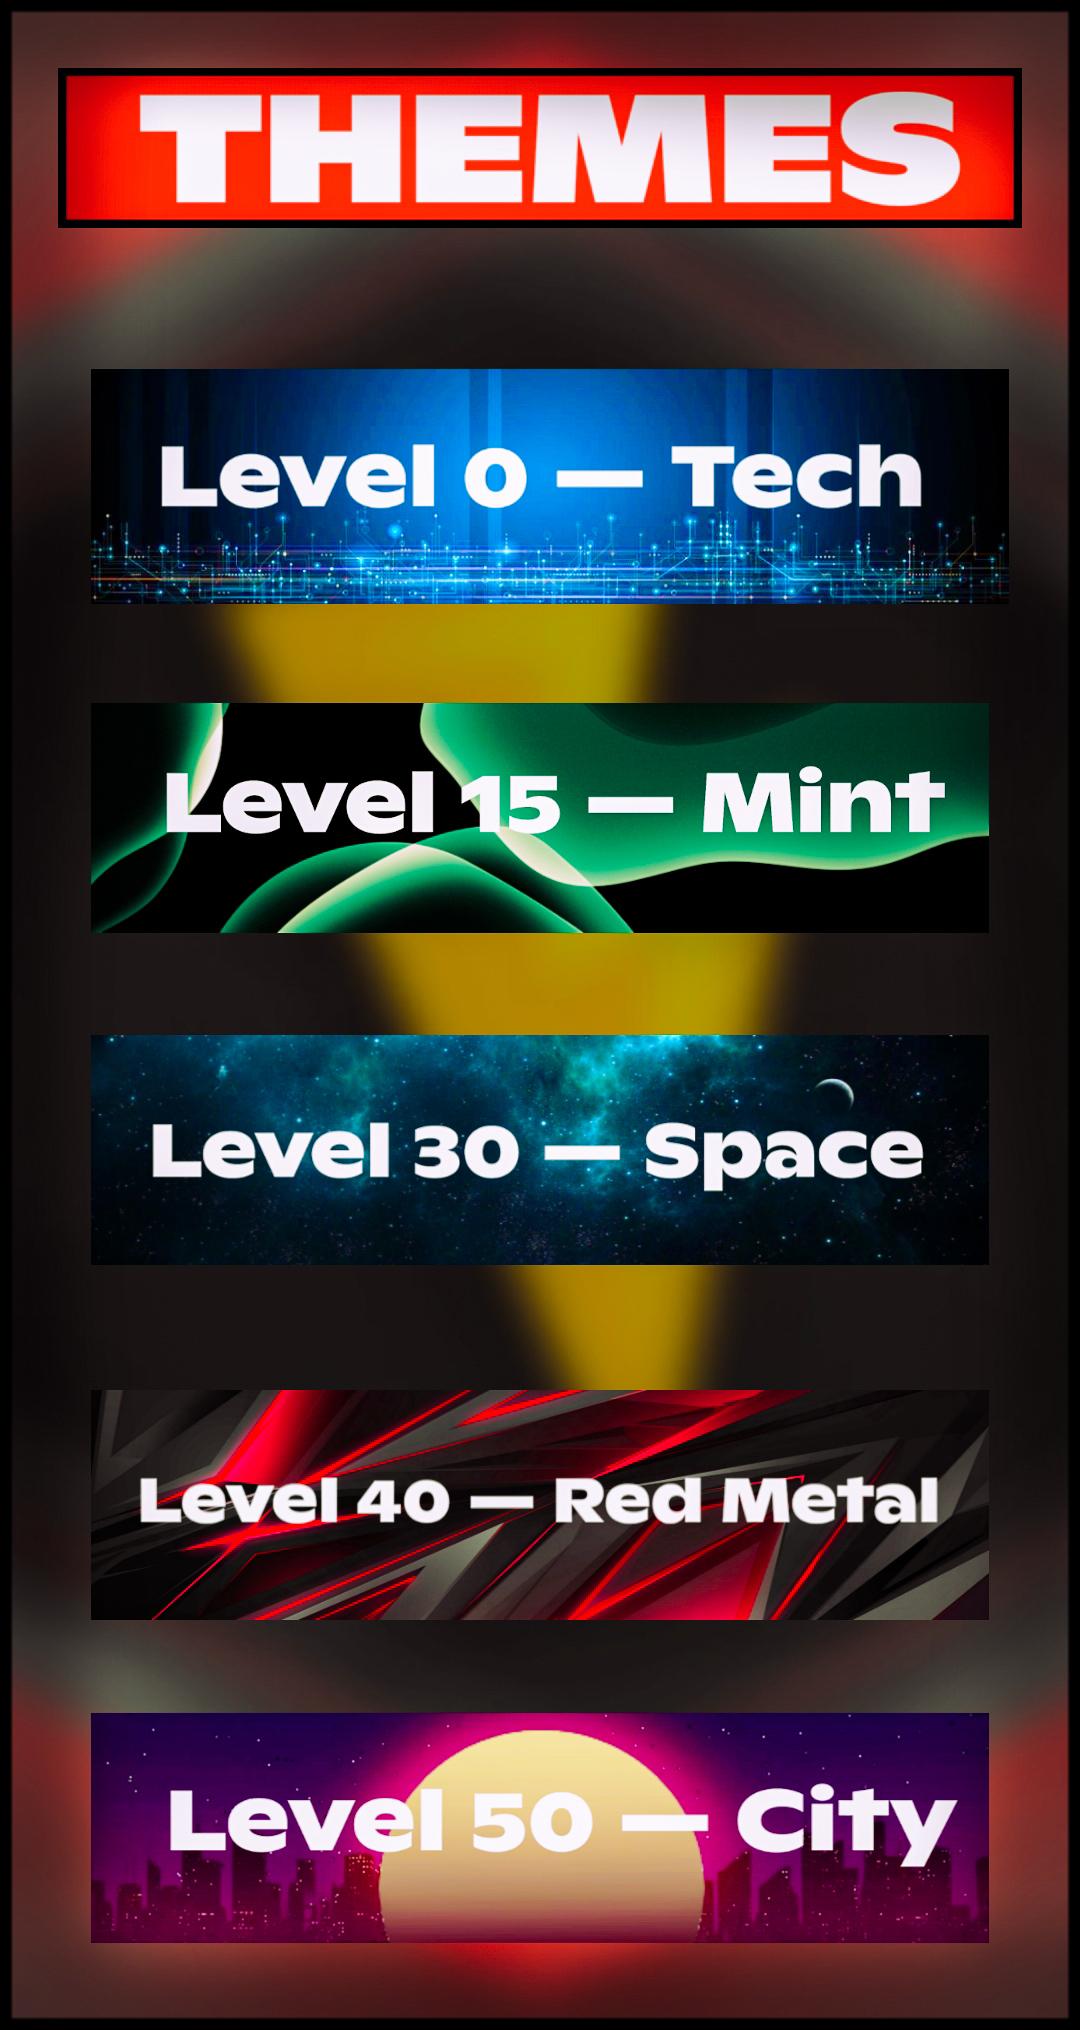
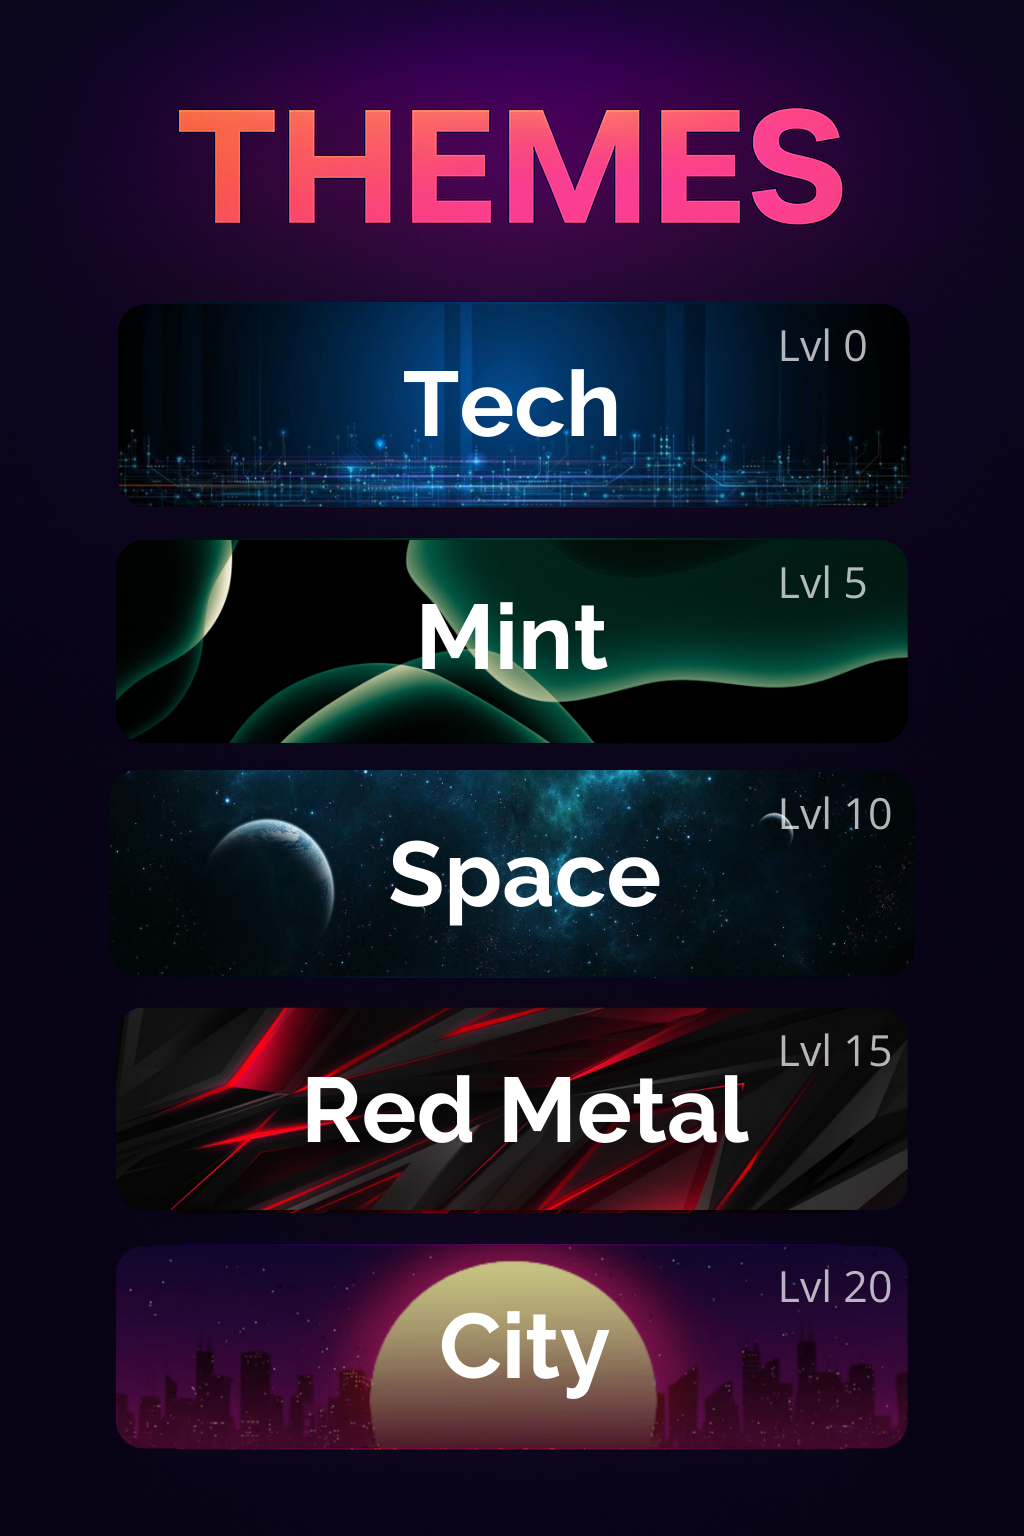
rank card changes

diff --git a/count_python_lines.py b/count_python_lines.py
@@ -1,0 +1,28 @@
+import os
+
+# Set the root directory to the current directory
+root_dir = os.path.dirname(os.path.abspath(__file__))
+
+file_line_counts = []
+
+for dirpath, dirnames, filenames in os.walk(root_dir):
+    # Skip __pycache__ folders
+    dirnames[:] = [d for d in dirnames if d != '__pycache__']
+    for filename in filenames:
+        if filename.endswith('.py'):
+            file_path = os.path.join(dirpath, filename)
+            try:
+                with open(file_path, 'r', encoding='utf-8', errors='ignore') as f:
+                    lines = f.readlines()
+                file_line_counts.append((file_path, len(lines)))
+            except Exception as e:
+                file_line_counts.append((file_path, f'Error: {e}'))
+
+# Sort by line count descending
+file_line_counts.sort(key=lambda x: (x[1] if isinstance(x[1], int) else -1), reverse=True)
+
+for file_path, line_count in file_line_counts:
+    print(f'{file_path}: {line_count}')
+
+total = sum(lc for _, lc in file_line_counts if isinstance(lc, int))
+print(f'\nTotal lines in all Python files: {total}')